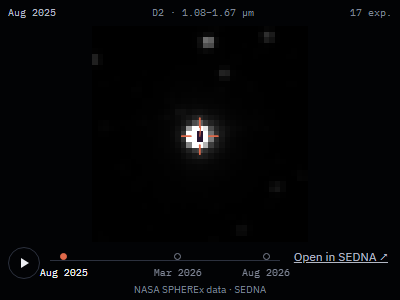
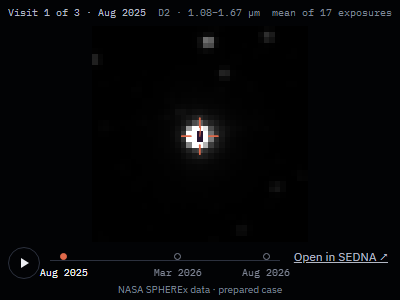
feat(ui): plain words for modes, visits, detectors and distances
- Each compare mode has one plain sentence under the mode list, in the normal
  view and in full screen (lib/modes.ts).
- The caption ties the blink to the single exposures: "Visit 1 of 3 · Aug
  2025 · mean of 17 exposures", and the single exposures' visit buttons show
  the same dates ("1 · May 2025") when both count the visits alike.
- Detector explained as a band of infrared; the distance focus says "Trial
  distance from SPHEREx" and what an au is.
- Full-screen caption on two lines so it never covers the data window.

Changed region(s): [[0.24, 0.03, 0.99, 0.06], [0.3, 0.93, 0.72, 0.99], [0.0, 0.03, 0.21, 0.06]]

diff --git a/web/src/App.tsx b/web/src/App.tsx
@@ -15,19 +15,12 @@ import { advance, missionById, MISSIONS, type Mission, type MissionContext } fro
 import { fetchMovers } from "./lib/movers";
 import { fetchRuler } from "./lib/prediction";
 import { fetchResolve, notFoundMessage, positionAt, unavailableMessage } from "./lib/resolve";
+import { DETECTOR_HELP, exposuresLabel, modeHelp, MODES, visitTitle, type Mode } from "./lib/modes";
 import { onSourceChange, type Active } from "./lib/transport";
 import { paintStack, sharedLimits, type ViewMode } from "./lib/render";
 import SkyView from "./SkyView";
 import StarCard from "./StarCard";
 
-type Mode = "blink" | "diff" | "sum" | "film" | "focus" | "follow";
-const MODES: { id: Mode; label: string }[] = [
-  { id: "blink", label: "Blink" },
-  { id: "diff", label: "Difference" },
-  { id: "sum", label: "Sum" },
-  { id: "film", label: "Single exposures" },
-  { id: "focus", label: "Distance focus" },
-];
 // fv: single-exposure visit (0-based; 1-based in the URL); ft: open the single exposures at this MJD
 // bp: brightness lens on a built-in target id, or on a point "ra,dec"; mission: guided mission id; ruler: parallax ruler on
 type View = { ra: number; dec: number; fov: number; det: number; mode: Mode; target: string | null; gaia: boolean; invert: boolean; fps: number; fv: number; ft: number | null; bp: string | null; mission: string | null; ruler: boolean; sky: boolean };
@@ -473,10 +466,10 @@ export default function App() {
                       ? `${dateLabel(frames[frames.length - 1].start)} − ${dateLabel(frames[0].start)}`
                       : view.mode === "sum"
                         ? `Sum of ${frames.length} visits`
-                        : dateLabel(current.start)}
+                        : stack ? visitTitle(current.visit, stack.visits.length, dateLabel(current.start)) : dateLabel(current.start)}
                   </span>
-                  <span>D{view.det} · {DETECTORS[view.det - 1].range}</span>
-                  <span>{view.mode === "blink" ? `${current.exposures} exp.` : `${frames.reduce((s, f) => s + f.exposures, 0)} exp.`}</span>
+                  <span className="wavelength">D{view.det} · {DETECTORS[view.det - 1].range}</span>
+                  <span>{exposuresLabel(view.mode === "blink" ? current.exposures : frames.reduce((s, f) => s + f.exposures, 0), view.mode === "blink")}</span>
                 </>
               ) : (
                 <span>&nbsp;</span>
@@ -635,6 +628,7 @@ export default function App() {
               visit={view.fv}
               startMjd={view.ft}
               movers={movers.kind === "ready" ? movers.data.movers.filter((m) => m.visible) : []}
+              visitLabels={stack ? stack.visits.map((v) => dateLabel(v.start)) : null}
               onVisit={(v) => update({ fv: v, ft: null }, true)}
               onFocus={(s) => { setSeed(s); update({ mode: "focus", target: null }, true); }}
             />
@@ -669,9 +663,9 @@ export default function App() {
         caption={
           current
             ? [
-                view.mode === "diff" && frames.length > 1 ? `${dateLabel(frames[frames.length - 1].start)} − ${dateLabel(frames[0].start)}` : view.mode === "sum" ? `Sum of ${frames.length} visits` : dateLabel(current.start),
+                view.mode === "diff" && frames.length > 1 ? `${dateLabel(frames[frames.length - 1].start)} − ${dateLabel(frames[0].start)}` : view.mode === "sum" ? `Sum of ${frames.length} visits` : stack ? visitTitle(current.visit, stack.visits.length, dateLabel(current.start)) : dateLabel(current.start),
                 `D${view.det} · ${DETECTORS[view.det - 1].range}`,
-                `${view.mode === "diff" || view.mode === "sum" ? frames.reduce((n, f) => n + f.exposures, 0) : current.exposures} exp.`,
+                exposuresLabel(view.mode === "diff" || view.mode === "sum" ? frames.reduce((n, f) => n + f.exposures, 0) : current.exposures, view.mode !== "diff" && view.mode !== "sum"),
               ]
             : [`D${view.det} · ${DETECTORS[view.det - 1].range}`]
         }
@@ -789,11 +783,12 @@ export default function App() {
             <div className="group" role="group" aria-label="Compare mode">
               <span className="eyebrow">Compare</span>
               {MODES.map((m) => (
-                <button key={m.id} type="button" className="opt" aria-pressed={view.mode === m.id} onClick={() => update({ mode: m.id })}>
+                <button key={m.id} type="button" className="opt" aria-pressed={view.mode === m.id} onClick={() => update({ mode: m.id })} aria-describedby="mode-help">
                   <span className="dot" />
                   {m.label}
                 </button>
               ))}
+              {modeHelp(view.mode) && <p className="mode-help" id="mode-help">{modeHelp(view.mode)}</p>}
             </div>
             {!modePanelEl && (
               <div className="group" role="group" aria-label="Detector">
@@ -806,6 +801,7 @@ export default function App() {
                   ))}
                 </div>
                 <span className="sub mono det-range">{DETECTORS[view.det - 1].range}</span>
+                <span className="mode-help">{DETECTOR_HELP}</span>
               </div>
             )}
             {view.mode !== "focus" && view.mode !== "follow" && (

diff --git a/web/src/FilmPanel.tsx b/web/src/FilmPanel.tsx
@@ -14,6 +14,7 @@ type Props = {
   dec: number;
   fov: number;
   visit: number;
+  visitLabels?: string[] | null; // the blink's dates for the same visits, when both count them alike
   startMjd: number | null; // open at the exposure closest to this time, paused
   movers: Mover[];
   onVisit: (visit: number) => void;
@@ -22,7 +23,7 @@ type Props = {
 
 const LIMITS = { lo: -0.8, hi: 12 };
 
-export default function FilmPanel({ ra, dec, fov, visit, startMjd, movers, onVisit, onFocus }: Props) {
+export default function FilmPanel({ ra, dec, fov, visit, visitLabels, startMjd, movers, onVisit, onFocus }: Props) {
   const [film, setFilm] = useState<Film | null>(null);
   const [status, setStatus] = useState<{ kind: "loading" | "ready" | "error"; message?: string }>({ kind: "loading" });
   const [frame, setFrame] = useState(0);
@@ -84,6 +85,7 @@ export default function FilmPanel({ ra, dec, fov, visit, startMjd, movers, onVis
 
   const size = film?.grid.size ?? 1;
   const current = film?.frames[Math.min(frame, (film?.frames.length ?? 1) - 1)];
+  const labels = film && visitLabels && visitLabels.length === film.visits ? visitLabels : null;
   const inVisit = useMemo(() => (film ? movers.filter((m) => m.visit === film.visit) : []), [film, movers]);
   const marks = useMemo(() => {
     if (!film || !current || !showKnown) return [];
@@ -121,7 +123,7 @@ export default function FilmPanel({ ra, dec, fov, visit, startMjd, movers, onVis
           <>
             <span className="now">{current.date.slice(0, 16)}</span>
             <span>exposure {frame + 1} of {film.frames.length} · D{current.detector}</span>
-            <span>visit {film.visit + 1} of {film.visits}</span>
+            <span>visit {film.visit + 1} of {film.visits}{labels ? ` · ${labels[film.visit]}` : ""}</span>
           </>
         ) : (
           <span>&nbsp;</span>
@@ -160,7 +162,7 @@ export default function FilmPanel({ ra, dec, fov, visit, startMjd, movers, onVis
               <div className="chips" role="group" aria-label="Visit">
                 <span className="eyebrow">Visit</span>
                 {Array.from({ length: film.visits }, (_, v) => (
-                  <button key={v} type="button" className="opt mono" aria-pressed={film.visit === v} onClick={() => onVisit(v)}>{v + 1}</button>
+                  <button key={v} type="button" className="opt mono" aria-pressed={film.visit === v} onClick={() => onVisit(v)}>{v + 1}{labels ? ` · ${labels[v]}` : ""}</button>
                 ))}
               </div>
             )}

diff --git a/web/src/FocusPanel.tsx b/web/src/FocusPanel.tsx
@@ -221,7 +221,7 @@ export default function FocusPanel({ body, seed, controls, onOpen, onProgress, h
         <>
           <div className="focus-controls">
             <div className="focus-readout">
-              <span className="eyebrow">Trial distance</span>
+              <span className="eyebrow">Trial distance from SPHEREx</span>
               <span className="focus-value mono">{trial === null ? "∞" : trial.toFixed(1)}<small>{trial === null ? " fixed stars" : " au"}</small></span>
             </div>
             <div className="focus-knob">
@@ -233,7 +233,7 @@ export default function FocusPanel({ body, seed, controls, onOpen, onProgress, h
                 {revealed && truth !== null && <line x1={xOf(trueIndex)} y1={0} x2={xOf(trueIndex)} y2={30} stroke="var(--ice)" strokeWidth={1} strokeDasharray="2 2" vectorEffect="non-scaling-stroke" />}
                 {di < n - 1 && <line x1={xOf(di)} y1={0} x2={xOf(di)} y2={30} stroke="var(--red-text)" strokeWidth={1.4} vectorEffect="non-scaling-stroke" />}
               </svg>
-              <label htmlFor="focus-range" className="sr">Trial distance, from 25 astronomical units to infinity</label>
+              <label htmlFor="focus-range" className="sr">Trial distance from SPHEREx, from 25 astronomical units to infinity</label>
               <input
                 id="focus-range" type="range" min={0} max={n - 1} step={1} value={di}
                 onChange={(e) => {
@@ -243,6 +243,7 @@ export default function FocusPanel({ body, seed, controls, onOpen, onProgress, h
                 }}
               />
               <div className="focus-scale mono"><span>25 au</span><span>100</span><span>600</span><span>∞</span></div>
+              <p className="mode-help focus-unit">1 au is the distance from the Earth to the Sun, about 150 million km. Neptune is at 30 au.</p>
             </div>
             <button type="button" className="primary" onClick={snap}>Find the focus</button>
           </div>

diff --git a/web/src/styles.css b/web/src/styles.css
@@ -199,7 +199,7 @@ a { color: inherit; }
 .hud-tl { top: 14px; left: 14px; display: grid; gap: 4px; padding: 10px 14px 10px; min-width: 240px; }
 .hud-tl strong { font-size: 17px; line-height: 22px; font-weight: 500; }
 .hud-tl .mono { font-size: 11px; line-height: 15px; color: var(--muted); white-space: pre; }
-.hud-caption { top: 118px; left: 14px; margin: 0; padding: 4px 9px; font-size: 11px; line-height: 16px; color: var(--muted-strong); }
+.hud-caption { top: 118px; left: 14px; margin: 0; padding: 5px 9px; display: grid; gap: 1px; max-width: 300px; font-size: 11px; line-height: 16px; color: var(--muted-strong); }
 .hud-caption .now { color: var(--fg); }
 .hud-tr { top: 14px; right: 14px; display: flex; align-items: center; gap: 2px; padding: 4px 6px; }
 .hud-icon { width: 36px; height: 36px; display: grid; place-items: center; color: var(--muted-strong); border-radius: 4px; }
@@ -628,4 +628,14 @@ a { color: inherit; }
 @media (max-width: 640px) and (max-height: 780px) {
   .landing-eyebrow, .landing-lede, .landing-film figcaption { display: none; }
   .landing-band { padding-top: 6px; }
+}
+
+/* plain words beside the controls: what a mode shows, what a detector is, what an au is */
+.mode-help { margin: 4px 0 0; max-width: 220px; font-size: 12px; line-height: 17px; color: var(--muted); text-align: right; text-wrap: pretty; }
+.hud .mode-help { max-width: 200px; text-align: left; font-size: 11px; line-height: 15px; }
+.focus-unit { max-width: none; text-align: left; margin-top: 2px; }
+.stage-wrap > .caption span { min-width: 0; overflow: hidden; text-overflow: ellipsis; }
+@media (max-width: 820px) {
+  .mode-help { max-width: none; width: 100%; text-align: left; }
+  .stage-wrap > .caption .wavelength { display: none; }
 }

diff --git a/web/src/lib/modes.ts b/web/src/lib/modes.ts
@@ -1,0 +1,23 @@
+// The ways of looking at a field, in words a non-astronomer can follow, and the caption that ties
+// the blink's dates to the visits the single exposures are numbered by.
+// Code written with AI assistance (Claude); see AI_USAGE.md.
+
+export type Mode = "blink" | "diff" | "sum" | "film" | "focus" | "follow";
+
+export const MODES: { id: Mode; label: string; help: string }[] = [
+  { id: "blink", label: "Blink", help: "One picture per visit, months apart, shown in turn: what changed between visits?" },
+  { id: "diff", label: "Difference", help: "The last visit minus the first. Dark: there before. Bright: there now." },
+  { id: "sum", label: "Sum", help: "Every visit added together: the deepest, least noisy picture." },
+  { id: "film", label: "Single exposures", help: "Every picture of one visit, minutes to days apart: what moves fast?" },
+  { id: "focus", label: "Distance focus", help: "Shifts and stacks one visit for trial distances, to find how far a moving body is." },
+];
+
+export const DETECTOR_HELP = "Each detector sees its own band of infrared, from D1 (shortest) to D6 (longest).";
+
+export const modeHelp = (id: Mode): string | null => MODES.find((m) => m.id === id)?.help ?? null;
+
+/** "Visit 2 of 3 · Jan 2026": the same numbering the single exposures use. */
+export const visitTitle = (visitIndex: number, visitCount: number, date: string) => `Visit ${visitIndex + 1} of ${visitCount} · ${date}`;
+
+/** What a frame is made of: one visit's mean, or every visit's exposures. */
+export const exposuresLabel = (n: number, mean: boolean) => (mean ? `mean of ${n} exposure${n === 1 ? "" : "s"}` : `${n} exposure${n === 1 ? "" : "s"}`);

diff --git a/web/src/SkyView.tsx b/web/src/SkyView.tsx
@@ -35,7 +35,7 @@ type Props = {
   epoch: number;
   mode: ViewMode;
   appMode: string;
-  modes: { id: string; label: string }[];
+  modes: { id: string; label: string; help?: string }[];
   limits: Limits;
   invert: boolean;
   status: string | null;
@@ -344,10 +344,11 @@ export default function SkyView(p: Props) {
     <div className="hud-group" role="group" aria-label="Compare">
       <span className="eyebrow">Compare</span>
       {p.modes.map((m) => (
-        <button key={m.id} type="button" className="opt" aria-pressed={p.appMode === m.id} onClick={() => p.onMode(m.id)}>
+        <button key={m.id} type="button" className="opt" aria-pressed={p.appMode === m.id} onClick={() => p.onMode(m.id)} aria-describedby="sky-mode-help">
           <span className="dot" />{m.label}
         </button>
       ))}
+      {p.modes.find((m) => m.id === p.appMode)?.help && <p className="mode-help" id="sky-mode-help">{p.modes.find((m) => m.id === p.appMode)?.help}</p>}
     </div>
   );
   const layersPanel = (
@@ -449,7 +450,8 @@ export default function SkyView(p: Props) {
       </header>
       {ready && (
         <p className="hud hud-caption mono">
-          <span className="now">{p.caption[0]}</span> {p.caption.slice(1).join(" · ")}
+          <span className="now">{p.caption[0]}</span>
+          {p.caption.length > 1 && <span>{p.caption.slice(1).join(" · ")}</span>}
         </p>
       )}
 

diff --git a/web/src/lib/modes.test.ts b/web/src/lib/modes.test.ts
@@ -1,0 +1,21 @@
+// Plain words for every way of looking at a field, and the visit caption.
+// Code written with AI assistance (Claude); see AI_USAGE.md.
+import { describe, expect, it } from "vitest";
+import { exposuresLabel, modeHelp, MODES, visitTitle } from "./modes";
+
+describe("modes in plain words", () => {
+  it("explains every mode in one short sentence", () => {
+    for (const m of MODES) {
+      expect(m.help.length).toBeGreaterThan(30);
+      expect(m.help.length).toBeLessThanOrEqual(90); // fits three lines of the narrow control column
+    }
+    expect(modeHelp("film")).toMatch(/one visit/);
+    expect(modeHelp("blink")).toMatch(/per visit/);
+  });
+
+  it("numbers visits the way the single exposures do", () => {
+    expect(visitTitle(0, 3, "Jun 2025")).toBe("Visit 1 of 3 · Jun 2025");
+    expect(exposuresLabel(21, true)).toBe("mean of 21 exposures");
+    expect(exposuresLabel(1, false)).toBe("1 exposure");
+  });
+});
